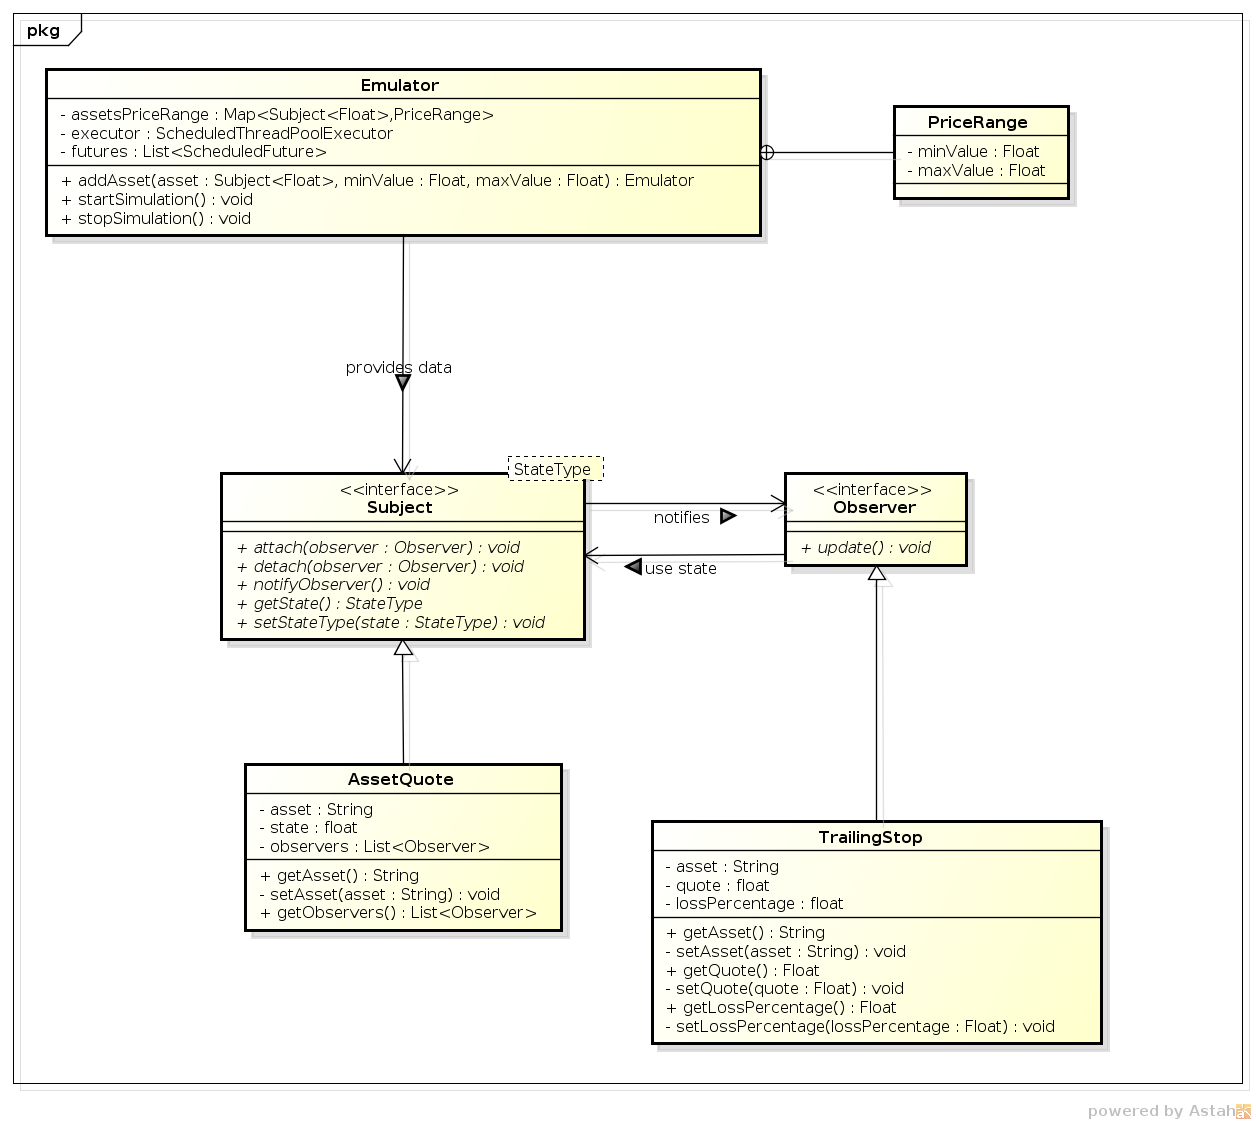
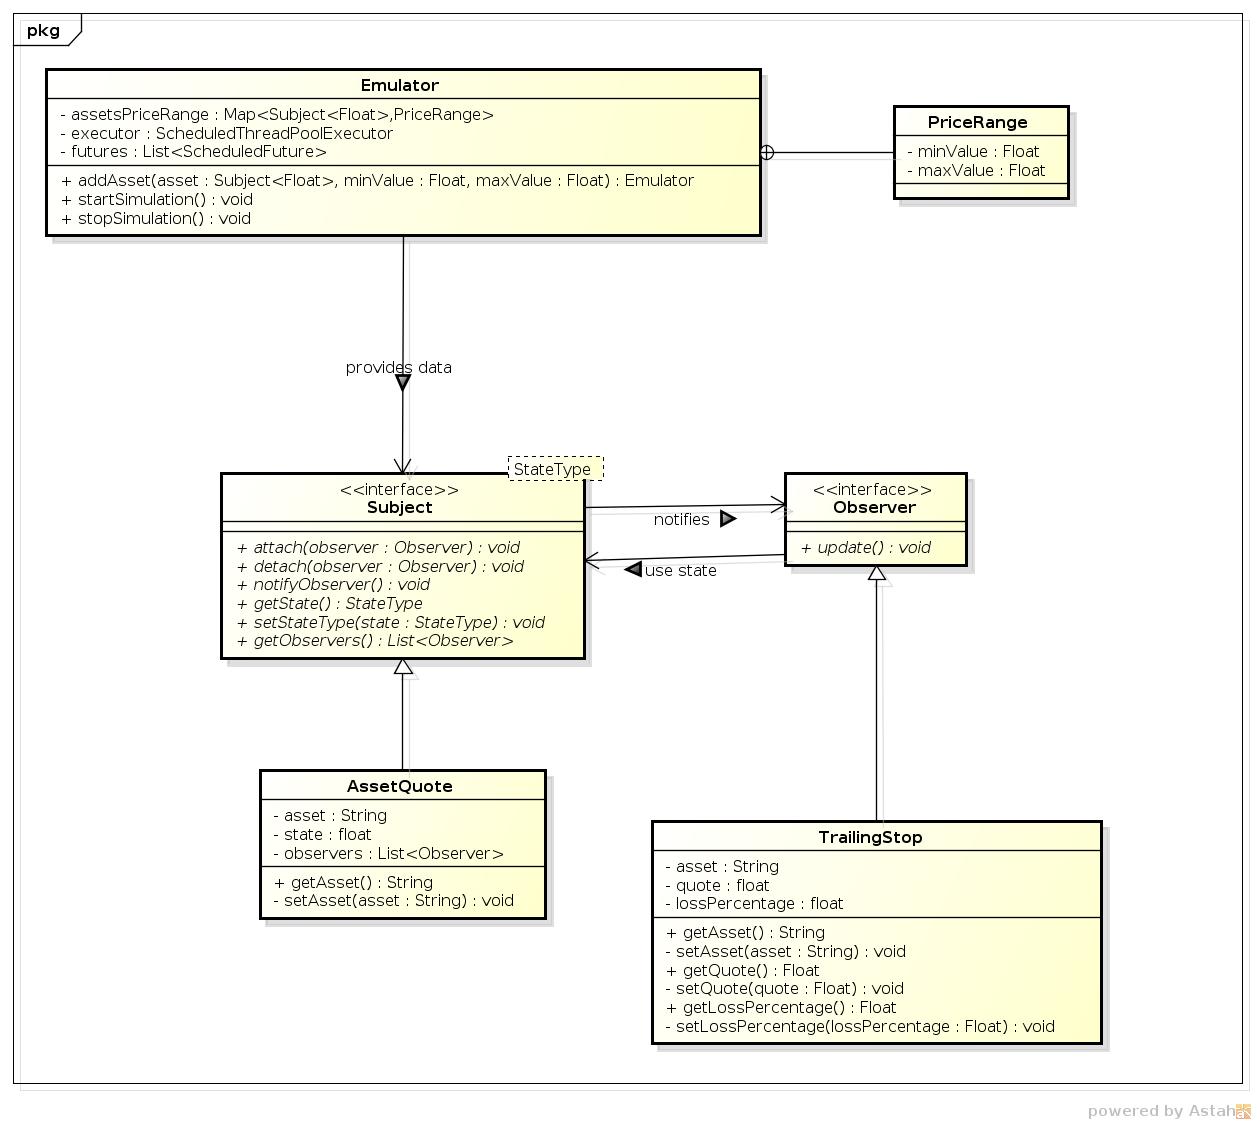
Tests and minor improviments.

Changed region(s): [[0.1863, 0.6539, 0.4658, 0.8407], [0.4658, 0.4359, 0.621, 0.5294], [0.1553, 0.5605, 0.4658, 0.6228]]

diff --git a/src/test/java/edu/luc/cs/spring2015/comp473/AssetQuoteTest.java b/src/test/java/edu/luc/cs/spring2015/comp473/AssetQuoteTest.java
@@ -1,0 +1,75 @@
+package edu.luc.cs.spring2015.comp473;
+
+import java.io.ByteArrayOutputStream;
+import java.io.PrintStream;
+
+import org.junit.After;
+import org.junit.Before;
+import org.junit.Test;
+
+import static org.junit.Assert.*;
+
+public class AssetQuoteTest {
+	
+	private final ByteArrayOutputStream outContent = new ByteArrayOutputStream();
+	
+	private final Float initialQuote = 500f;
+	private final Float newQuote = 510f;
+	private final String asset = "GOOGL";
+	private TrailingStop tS = null;
+	
+	@Before
+	public void setUp() throws Exception {
+		System.setOut(new PrintStream(outContent));
+		tS = new TrailingStop(asset, initialQuote, 0.05f);
+		tS.getAssetQuote().setState(initialQuote);
+	}
+
+	@After
+	public void tearDown() throws Exception {
+		System.setOut(null);
+	}
+	
+	@Test
+	public void testNotifyObserver() {
+		assertTrue(initialQuote.equals(tS.getQuote()));
+		tS.getAssetQuote().setState(newQuote);
+		assertTrue(newQuote.equals(tS.getQuote()));
+	}
+
+	@Test
+	public void testAttach() {
+		assertTrue(tS.getAssetQuote().getObservers().size() == 1);
+		assertTrue(tS.getAssetQuote().getObservers().get(0).equals(tS));
+	}
+
+	@Test
+	public void testDetach() {
+		assertTrue(tS.getAssetQuote().getObservers().get(0).equals(tS));
+		tS.getAssetQuote().detach(tS);
+		assertTrue(tS.getAssetQuote().getObservers().isEmpty());
+	}
+
+	@Test
+	public void testGetState() {
+		assertTrue(initialQuote.equals(tS.getAssetQuote().getState()));
+	}
+
+	@Test
+	public void testSetState() {
+		tS.getAssetQuote().setState(newQuote);
+		assertTrue(newQuote.equals(tS.getAssetQuote().getState()));
+	}
+
+	@Test
+	public void testGetObservers() {
+		assertTrue(tS.getAssetQuote().getObservers().size() == 1);
+		assertTrue(tS.getAssetQuote().getObservers().get(0).equals(tS));		
+	}
+
+	@Test
+	public void testGetAsset() {
+		assertTrue(asset.equals(((AssetQuote) tS.getAssetQuote()).getAsset()));
+	}
+
+}

diff --git a/src/test/java/edu/luc/cs/spring2015/comp473/TrailingStopTest.java b/src/test/java/edu/luc/cs/spring2015/comp473/TrailingStopTest.java
@@ -1,0 +1,62 @@
+package edu.luc.cs.spring2015.comp473;
+
+import java.io.ByteArrayOutputStream;
+import java.io.PrintStream;
+
+import org.junit.After;
+import org.junit.Before;
+import org.junit.Test;
+import static org.junit.Assert.*;
+
+public class TrailingStopTest {
+
+	private final ByteArrayOutputStream outContent = new ByteArrayOutputStream();
+	
+	private final Float initialQuote = 500f;
+	private final Float newQuote = 510f;
+	private final Float lossPercentage = 0.05f;
+	private final String asset = "GOOGL";
+	private TrailingStop tS = null;
+	
+	@Before
+	public void setUp() throws Exception {
+		System.setOut(new PrintStream(outContent));
+		tS = new TrailingStop(asset, initialQuote, lossPercentage);
+		tS.getAssetQuote().setState(initialQuote);
+	}
+
+	@After
+	public void tearDown() throws Exception {
+		System.setOut(null);
+	}
+
+	@Test
+	public void testUpdate() {
+		outContent.reset();
+		tS.getAssetQuote().setState(newQuote);
+		assertTrue("Current Quote is $510.00 => \n\tGreat, the asset price is rising.\n".equals(outContent.toString()));
+	}
+
+	@Test
+	public void testGetAssetQuote() {
+		assertTrue(tS.getAssetQuote().equals(tS.getAssetQuote()));
+	}
+
+	@Test
+	public void testGetAsset() {
+		assertTrue(asset.equals(tS.getAsset()));
+	}
+
+	@Test
+	public void testGetQuote() {
+		assertTrue(initialQuote.equals(tS.getQuote()));
+		tS.getAssetQuote().setState(newQuote);
+		assertTrue(newQuote.equals(tS.getQuote()));
+	}
+
+	@Test
+	public void testGetLossPercentage() {
+		assertTrue(lossPercentage.equals(tS.getLossPercentage()));
+	}
+
+}

diff --git a/src/main/java/edu/luc/cs/spring2015/comp473/TrailingStop.java b/src/main/java/edu/luc/cs/spring2015/comp473/TrailingStop.java
@@ -27,7 +27,7 @@ public class TrailingStop implements Observer {
 			System.out.println("The asset price dropped more than permitted by the loss limit: Selling it.");
 			assetQuote.detach(this);
 		} else {
-			System.out.println("The asset price dropped but it is still above the loss limit.");
+			System.out.println("The asset price do not changed or dropped but it is still above the loss limit.");
 		}
 		setQuote(currentQuote);
 	}

diff --git a/src/main/java/edu/luc/cs/spring2015/comp473/Subject.java b/src/main/java/edu/luc/cs/spring2015/comp473/Subject.java
@@ -1,5 +1,7 @@
 package edu.luc.cs.spring2015.comp473;
 
+import java.util.List;
+
 public interface Subject<StateType> {
 
 	void attach(Observer observer);
@@ -11,5 +13,7 @@ public interface Subject<StateType> {
 	StateType getState();
 	
 	void setState(StateType state);
+	
+	List<Observer> getObservers();
 	
 }

diff --git a/src/main/java/edu/luc/cs/spring2015/comp473/AssetQuote.java b/src/main/java/edu/luc/cs/spring2015/comp473/AssetQuote.java
@@ -40,6 +40,7 @@ public class AssetQuote implements Subject<Float> {
 		notifyObserver();
 	}
 	
+	@Override
 	public List<Observer> getObservers() {
 		return observers;
 	}
